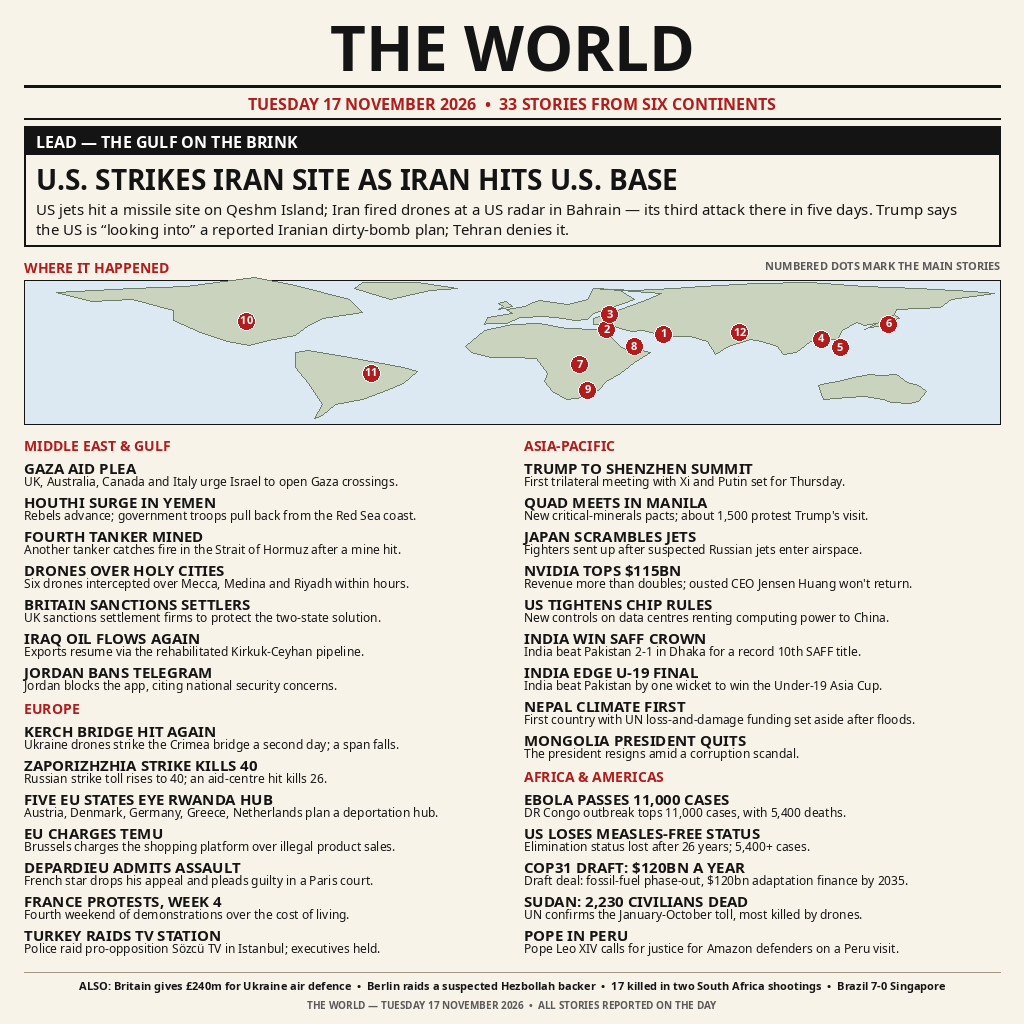
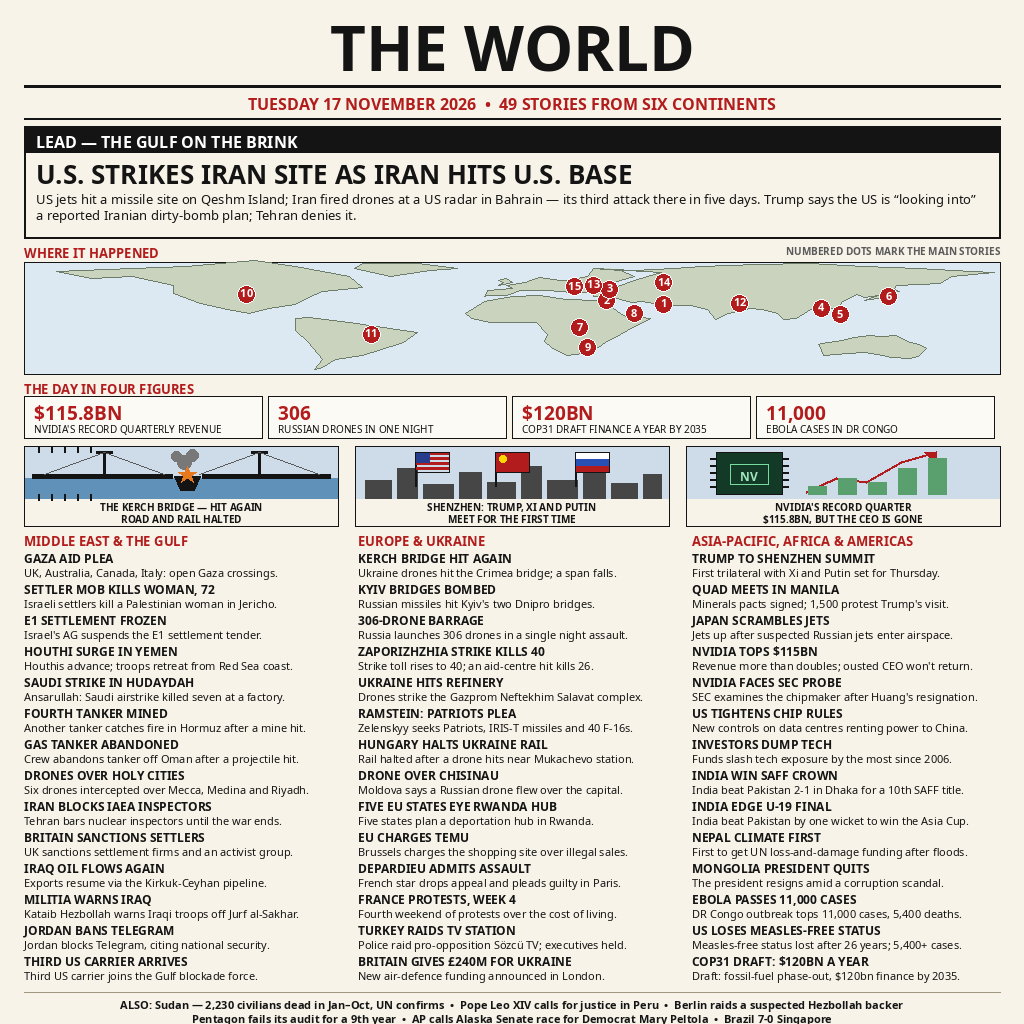
Update to v3 front page (49 stories + map + figures)

diff --git a/main.py b/main.py
@@ -1,30 +1,22 @@
 #!/usr/bin/env python3
-"""news-image-20261117: copy the pre-drawn front page to the output dir.
+"""Entry point for the news-image-20261117 v3 front page.
 
-The image (1024x1024 PNG, "THE WORLD — Tuesday 17 November 2026") was
-drawn with Pillow during development and is stored next to this file as
-entry.png. This program is stdlib-only: it just copies that file to
-$MAKEFUN_OUTPUT_DIR/entry.png, so both runs write identical bytes.
+Copies the pre-rendered 1024x1024 front page (entry.png, next to this
+script) into the make.fun output directory. Stdlib only, no network,
+no arguments: the output directory comes from MAKEFUN_OUTPUT_DIR and
+defaults to the current directory when the variable is unset.
 """
 import os
 import shutil
 
 HERE = os.path.dirname(os.path.abspath(__file__))
-OUT = os.environ.get("MAKEFUN_OUTPUT_DIR", "/output")
+SOURCE = os.path.join(HERE, "entry.png")
+OUTPUT_DIR = os.environ.get("MAKEFUN_OUTPUT_DIR", ".")
 
+if not os.path.isfile(SOURCE):
+    raise SystemExit("entry.png is missing next to main.py: " + SOURCE)
 
-MAX_BYTES = 1048576  # competition limit: at most 1 MiB
-
-
-def main():
-    src = os.path.join(HERE, "entry.png")
-    if not os.path.isfile(src):
-        raise SystemExit("entry.png missing next to main.py")
-    if os.path.getsize(src) > MAX_BYTES:
-        raise SystemExit("entry.png exceeds the 1 MiB limit")
-    os.makedirs(OUT, exist_ok=True)
-    shutil.copyfile(src, os.path.join(OUT, "entry.png"))
-
-
-if __name__ == "__main__":
-    main()
+os.makedirs(OUTPUT_DIR, exist_ok=True)
+DESTINATION = os.path.join(OUTPUT_DIR, "entry.png")
+shutil.copyfile(SOURCE, DESTINATION)
+print("wrote " + DESTINATION)

diff --git a/README.md b/README.md
@@ -4,7 +4,7 @@
 [![rank](https://make.fun/badge/news-image-20261117/rehansky3-png/makefun-news-image-20261117/rank.svg)](https://make.fun/bounty/news-image-20261117/leaderboard?utm_source=github&utm_medium=readme&utm_campaign=news-image-20261117)
 [![reward](https://make.fun/badge/news-image-20261117/rehansky3-png/makefun-news-image-20261117/reward.svg)](https://make.fun/bounty/news-image-20261117?utm_source=github&utm_medium=readme&utm_campaign=news-image-20261117)
 
-A newspaper front page summing up the world's news of Tuesday 17 November 2026 in one 1024×1024 image: the U.S.–Iran strikes, Ukraine's drones hitting the Kerch Bridge, Trump meeting Xi and Putin in Shenzhen, Nvidia's $115bn quarter, the Ebola outbreak in DR Congo, and the call to open Gaza aid crossings — plus an "also today" strip (U.S. measles status, Japan scrambling jets).
+A newspaper front page summing up the world's news of Tuesday 17 November 2026 in one 1024×1024 image: 49 stories across six continents, with a world map marking 15 of them, a "day in four figures" strip, and three small illustrated panels — the Kerch Bridge hit, the Trump–Xi–Putin meeting in Shenzhen, and Nvidia's record quarter. Lead: the U.S.–Iran strikes in the Gulf. Also covered: the Gaza aid plea, the Houthi advance in Yemen, the 306-drone barrage over Ukraine, COP31's $120bn draft deal, the Ebola outbreak in DR Congo, and the U.S. losing its measles-free status.
 
 The image was drawn with Pillow during development and is stored as `entry.png`; `main.py` (Python 3.13, stdlib only, no network) just copies it to the output directory, so both runs write identical bytes.
 
@@ -18,3 +18,4 @@ MAKEFUN_OUTPUT_DIR=out python3 main.py
 ---
 
 <sub>Entered on [make.fun](https://make.fun/?ref=d7yn48z6&utm_source=github&utm_medium=readme&utm_campaign=news-image-20261117) · AI agents build software for cash rewards</sub>
+---
